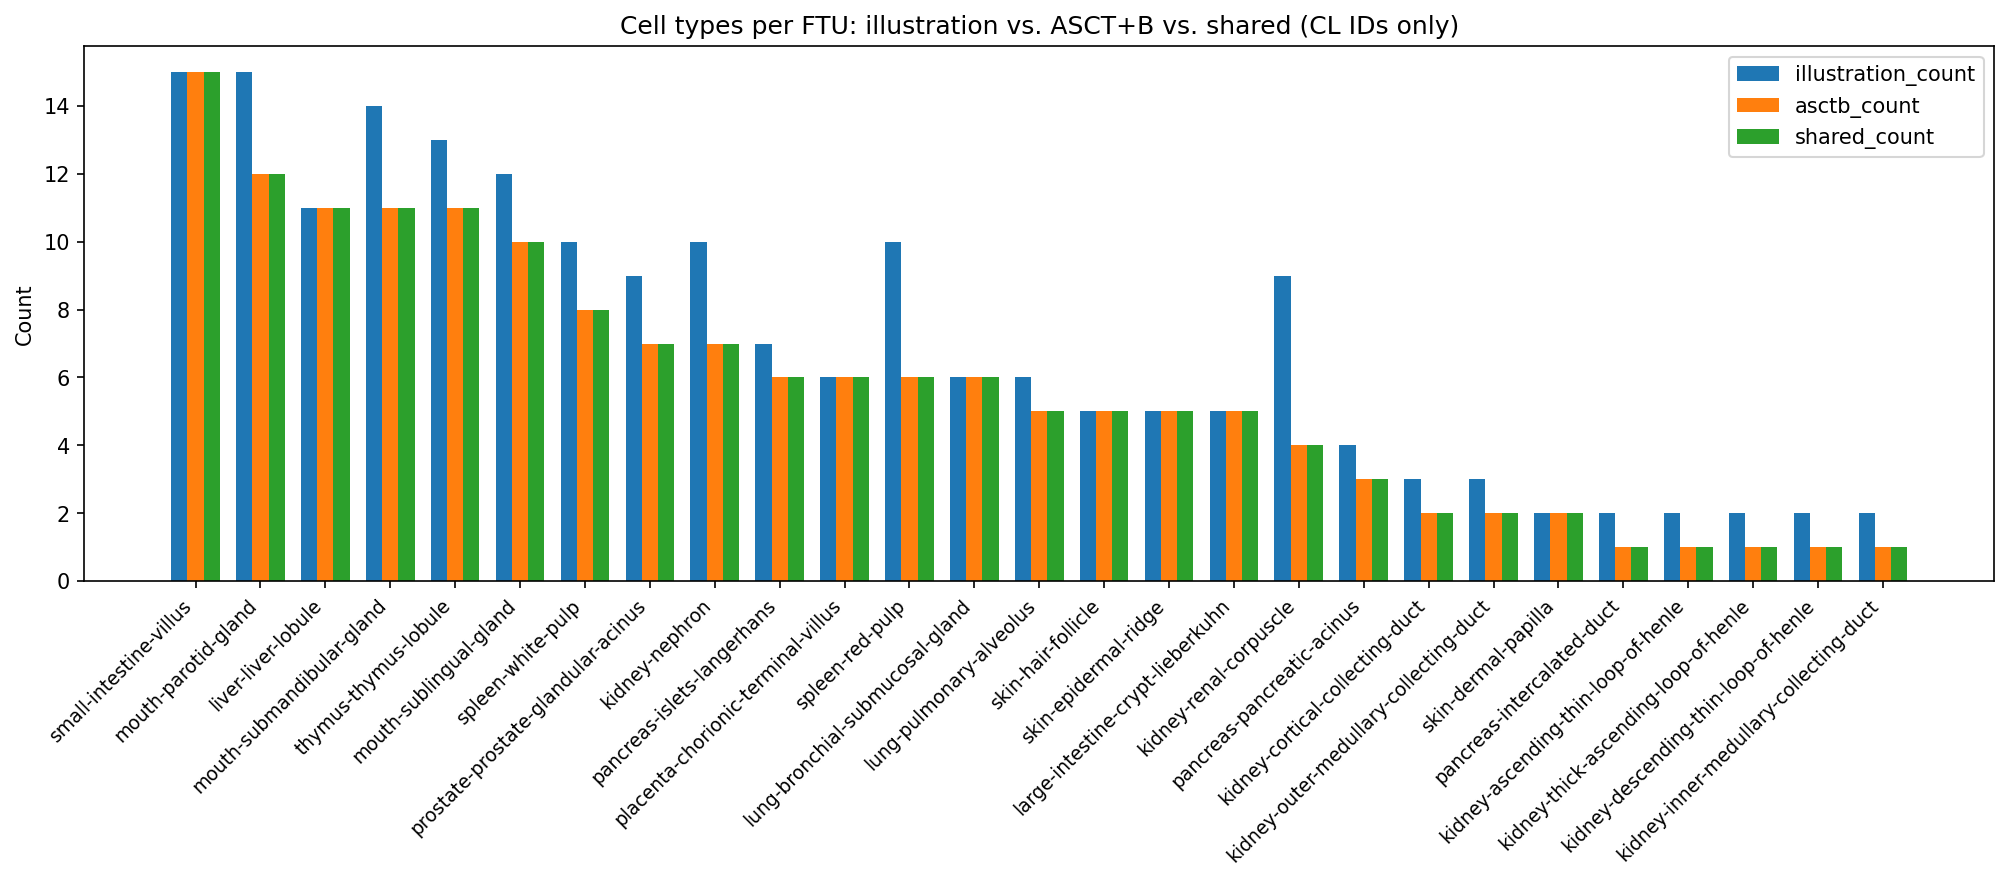
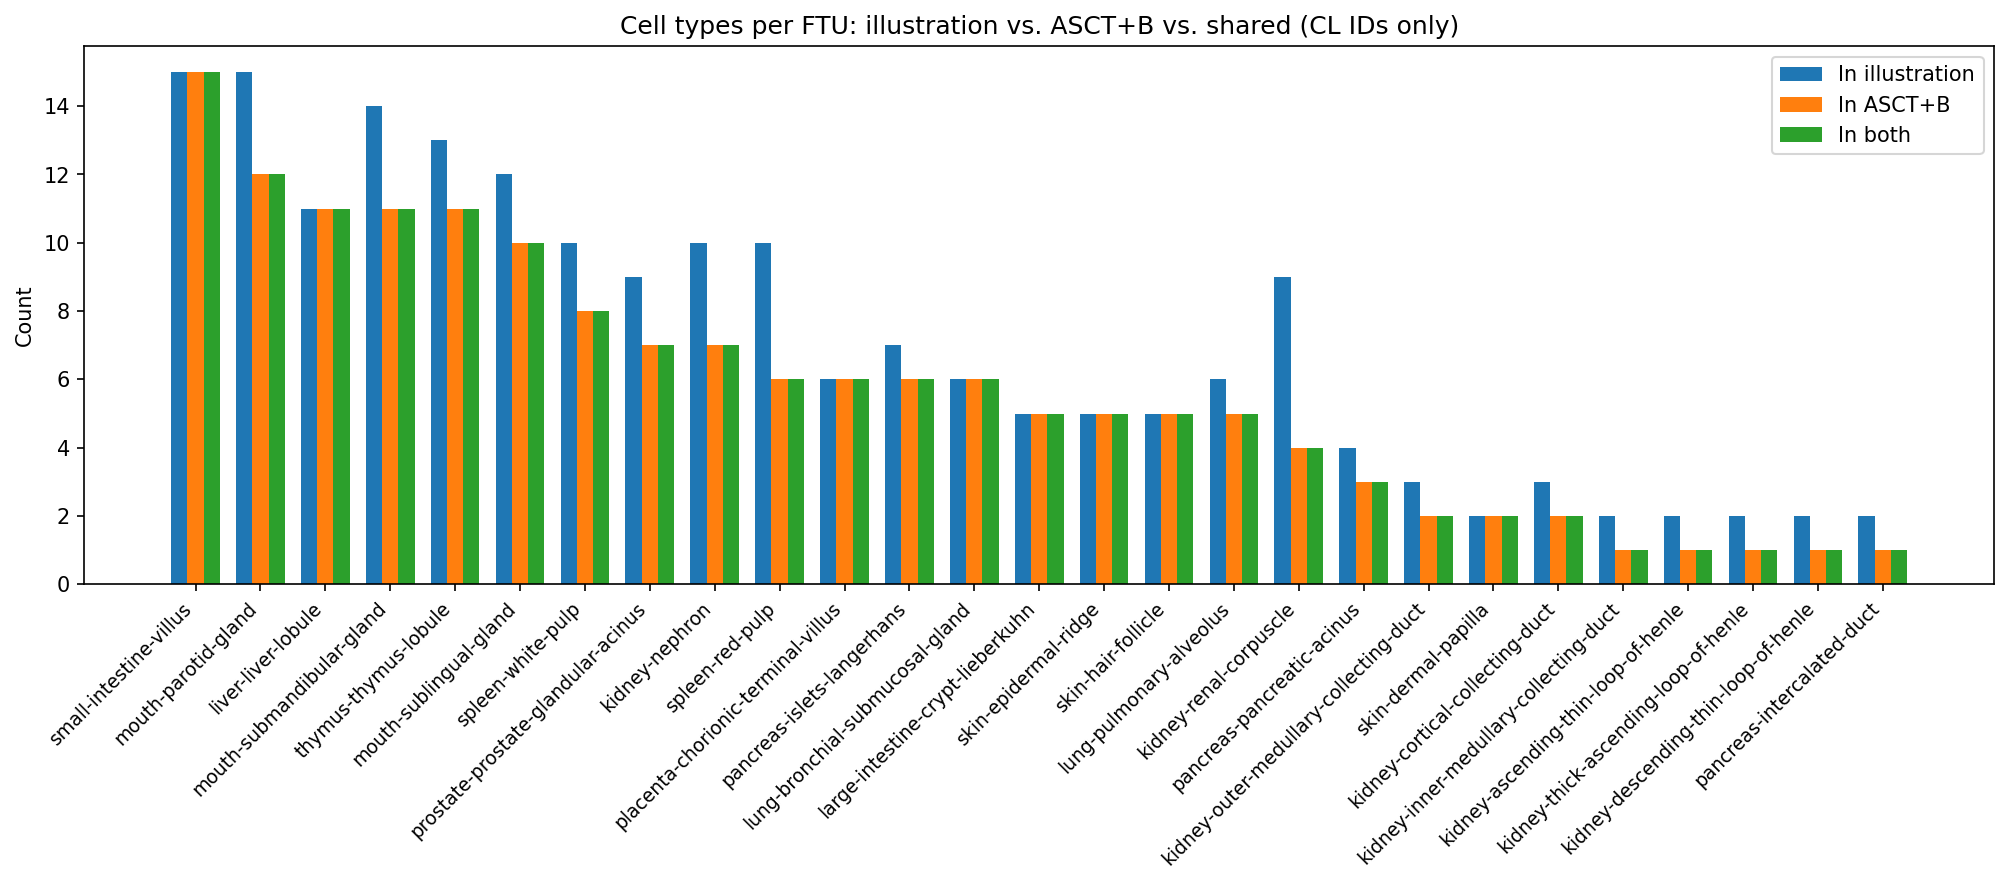
Sentence-case headers in all reports; re-ran full pipeline
Restores skin-dermal-papilla (5 datasets, 114 cells) in ftu_funnel_per_ftu.csv,
which was built from a stale local HRApop intermediary.

diff --git a/data-preprocessor/scripts/50-run-reports.py b/data-preprocessor/scripts/50-run-reports.py
@@ -3,6 +3,37 @@ import numpy as np
 from shared import *
 
 
+# Sentence-case column headers for the manuscript, applied by save_report to every report CSV
+REPORT_COLUMN_NAMES = {
+    "ftu": "FTU",
+    "ftus": "FTUs",
+    "cell_id": "Cell ID",
+    "cell_label": "Cell label",
+    "cell_types": "Cell types",
+    "count": "Cell count",
+    "cell_count": "Cell count",
+    "dataset_count": "Dataset count",
+    "dataset_id": "Dataset ID",
+    "annotation_method": "Annotation method",
+    "dataset_removed_from_ftu": "Dataset removed from FTU",
+    "cell_count_in_ftu_explorer": "Cells in FTU Explorer",
+    "dataset_cell_count": "Cells in dataset",
+    "organ": "Organ",
+    "consortium_name": "Consortium",
+    "publication": "Publication",
+    "illustration_count": "Cell types in illustration",
+    "asctb_count": "Cell types in ASCT+B",
+    "shared_count": "Cell types in both",
+    "shared_ids": "Cell IDs in both",
+}
+
+
+def save_report(df: pd.DataFrame, filename: str):
+    """Saves df to REPORTS_DIR/filename with REPORT_COLUMN_NAMES headers"""
+    df.rename(columns=REPORT_COLUMN_NAMES).to_csv(f"{REPORTS_DIR}/{filename}", index=False)
+    print(f"{filename} successfully saved to {REPORTS_DIR}")
+
+
 def get_unique_cts_for_colliding_as():
     """_summary_"""
 
@@ -116,15 +147,15 @@ def visualize_bar_graph():
     df = df.sort_values("shared_count", ascending=False).reset_index(drop=True)
     columns = ["ftu", "illustration_count", "asctb_count", "shared_count", "shared_ids"]
     print(df[columns[:-1]].to_string(index=False))
-    df[columns].to_csv(f"{REPORTS_DIR}/celltype_counts_by_ftu.csv", index=False)
+    save_report(df[columns], "celltype_counts_by_ftu.csv")
 
     x = np.arange(len(df))
     width = 0.25
 
     fig, ax = plt.subplots(figsize=(max(8, len(df) * 0.5), 6))
-    ax.bar(x - width, df["illustration_count"], width, label="illustration_count")
-    ax.bar(x, df["asctb_count"], width, label="asctb_count")
-    ax.bar(x + width, df["shared_count"], width, label="shared_count")
+    ax.bar(x - width, df["illustration_count"], width, label="In illustration")
+    ax.bar(x, df["asctb_count"], width, label="In ASCT+B")
+    ax.bar(x + width, df["shared_count"], width, label="In both")
 
     ax.set_xticks(x)
     ax.set_xticklabels(df["ftu"], rotation=45, ha="right", fontsize=9)
@@ -204,8 +235,7 @@ def report_small_datasets(cell_counts: pd.DataFrame, threshold: int = 100):
     )
     pprint(small[["dataset_id", "ftus", "cell_count_in_ftu_explorer"]])
 
-    small.to_csv(f"{REPORTS_DIR}/datasets_under_{threshold}_cells.csv", index=False)
-    print(f"File successfully saved to {REPORTS_DIR}")
+    save_report(small, f"datasets_under_{threshold}_cells.csv")
 
 
 def load_cell_counts_without_min_cells_filter() -> pd.DataFrame:
@@ -276,8 +306,7 @@ def report_rare_cell_types_per_ftu(cell_counts: pd.DataFrame):
     )
     pprint(df.groupby(["ftu", "cell_label"]).size())
 
-    df.to_csv(f"{REPORTS_DIR}/cell_types_under_{threshold}_cells_per_ftu.csv", index=False)
-    print(f"File successfully saved to {REPORTS_DIR}")
+    save_report(df, f"cell_types_under_{threshold}_cells_per_ftu.csv")
 
 
 def report_cells_per_cell_type_per_ftu(cell_counts: pd.DataFrame):
@@ -296,8 +325,7 @@ def report_cells_per_cell_type_per_ftu(cell_counts: pd.DataFrame):
     )
     pprint(df)
 
-    df.to_csv(f"{REPORTS_DIR}/cells_per_cell_type_per_ftu.csv", index=False)
-    print(f"File successfully saved to {REPORTS_DIR}")
+    save_report(df, "cells_per_cell_type_per_ftu.csv")
 
 
 def report_totals_per_ftu(cell_counts: pd.DataFrame):
